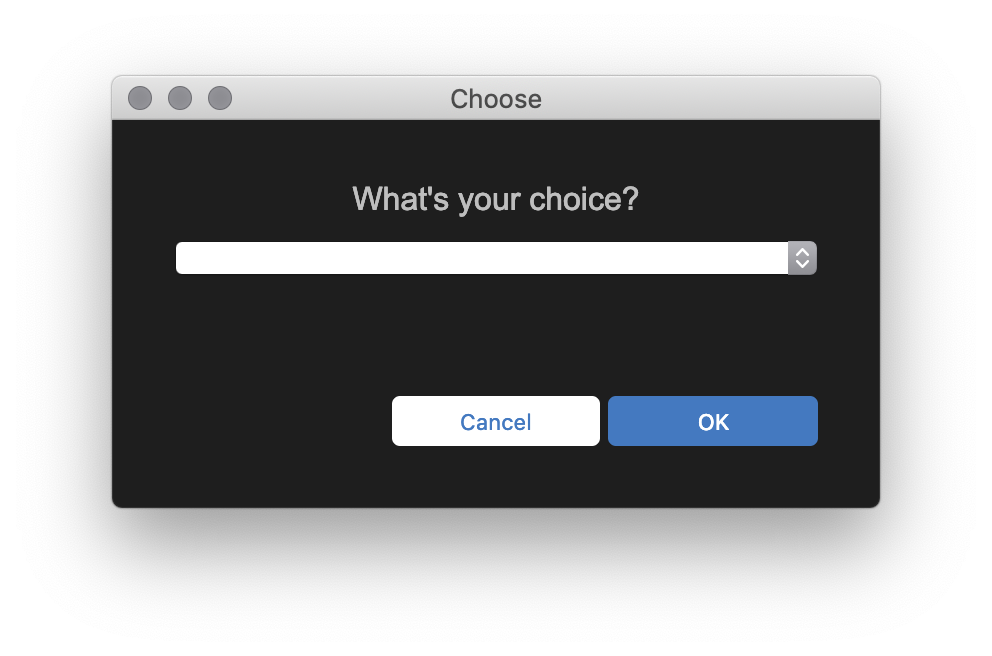
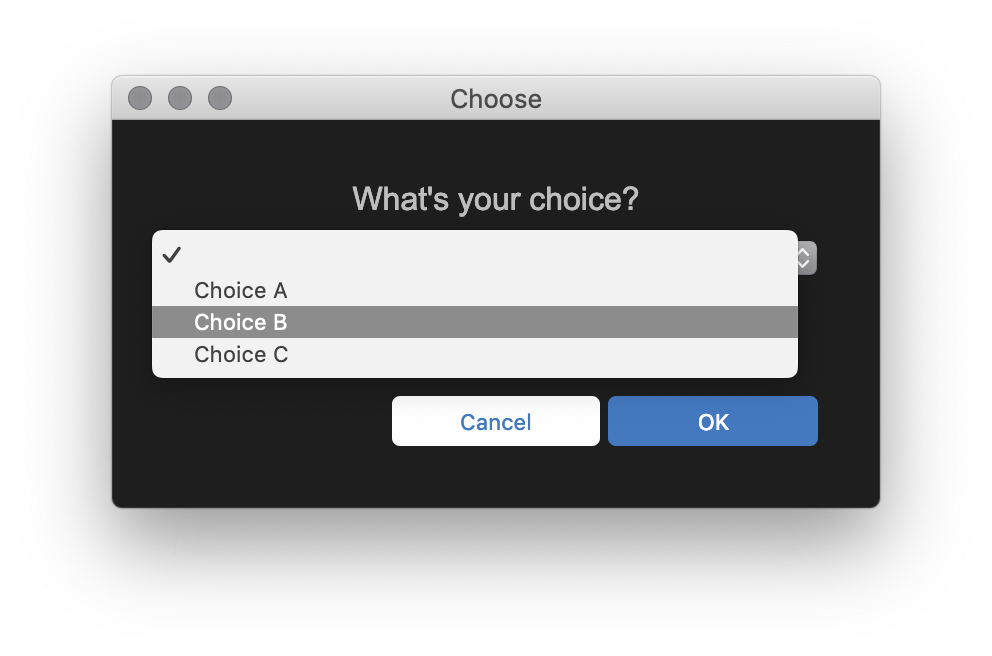
restore demo

Changed region(s): [[0.1562, 0.3354, 0.8125, 0.5793]]

diff --git a/demo/index.js b/demo/index.js
@@ -14,33 +14,31 @@ tape('Demo', async ({
         plan
     }) => {
     try {
-        choosemultiple('What are your choices?', 'Choice α', 'Choice β', 'Choice γ');
+        {
+            await alert('This is a test.');
+        }
+        {
+            await confirm('Are you ready to start the test?');
 
-        // {
-        //     await alert('This is a test.');
-        // }
-        // {
-        //     await confirm('Are you ready to start the test?');
-
-        // }
-        // {
-        //     const answer = await choosedropdown('Choose your unit.',
-        //         '0: Introduction',
-        //         '1: After The Beginning...');
-        // }
-        // {
-        //     const answer = await prompt('What is the answer to the ultimate question?', '0');
-        //     equal('42', answer.trim().toLowerCase());
-        // }
-        // {
-        //     const answer = await choose('What is the first letter of the english alphabet?', 'A', 'B', 'C');
-        //     equal('A', answer);
-        // }
-        // {
-        //     const answer = await choosemultiple('Who are the Ninja Turtles?',
-        //         "Leonardo", "Ralphael", "Michaelangelo", "Donatelo", "Splinter");
-        //     deepEqual(["Leonardo", "Ralphael", "Michaelangelo", "Donatelo"], answer);
-        // }
+        }
+        {
+            const answer = await choosedropdown('Choose your unit.',
+                '0: Introduction',
+                '1: After The Beginning...');
+        }
+        {
+            const answer = await prompt('What is the answer to the ultimate question?', '0');
+            equal('42', answer.trim().toLowerCase());
+        }
+        {
+            const answer = await choose('What is the first letter of the english alphabet?', 'A', 'B', 'C');
+            equal('A', answer);
+        }
+        {
+            const answer = await choosemultiple('Who are the Ninja Turtles?',
+                "Leonardo", "Ralphael", "Michaelangelo", "Donatelo", "Splinter");
+            deepEqual(["Leonardo", "Ralphael", "Michaelangelo", "Donatelo"], answer);
+        }
     } catch (error) {
         console.log(`Test ended early: ${error.message}`)
     } finally {
